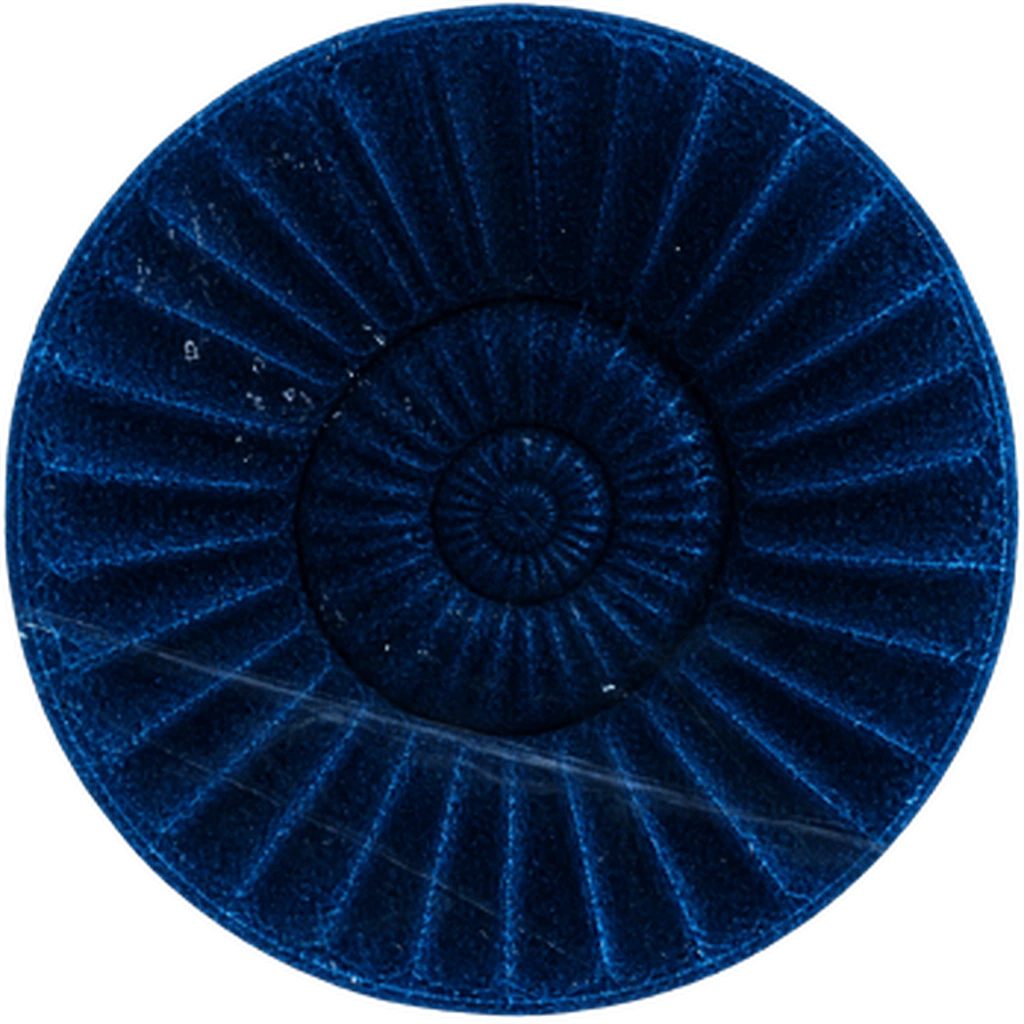
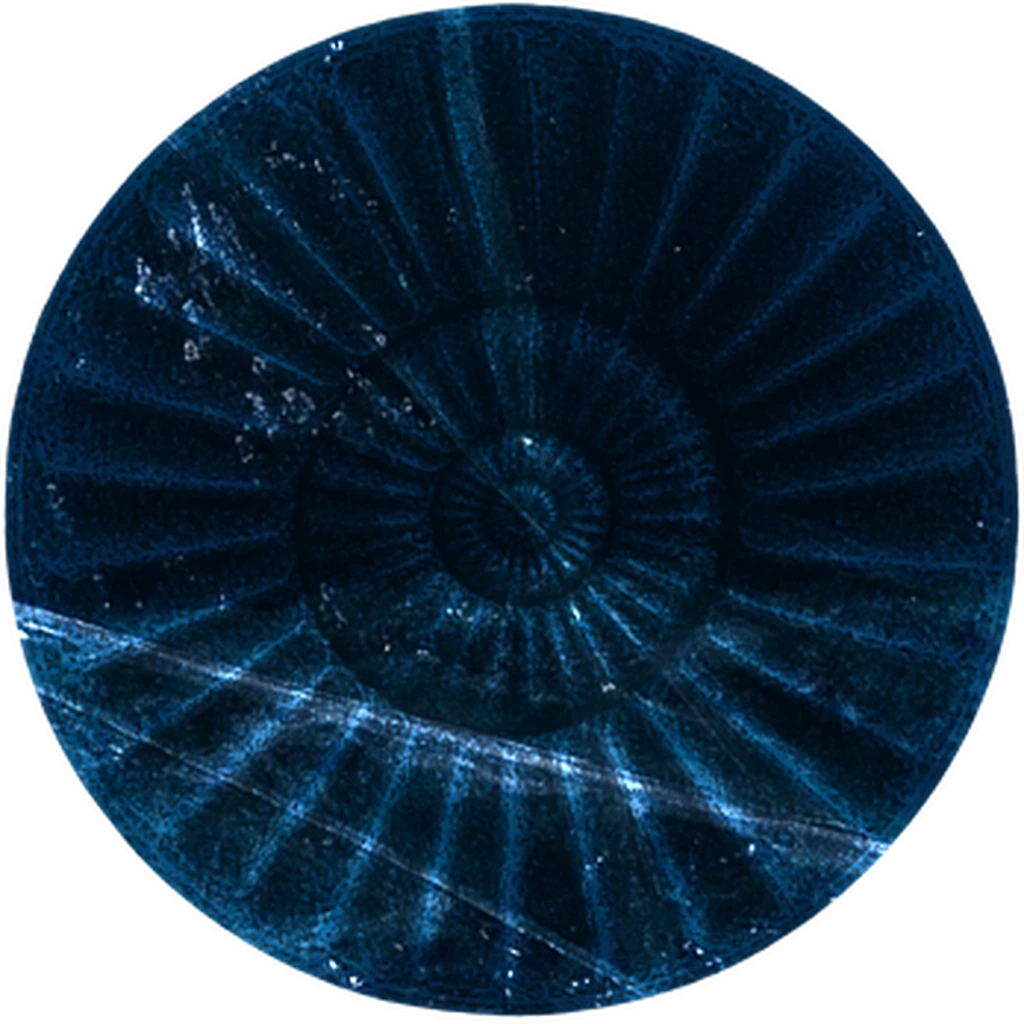
fix: the fossil is now made of the ice, and its cracks actually line up
The cracks carried onto the fossil could never have registered, for a reason
that took measuring rather than looking. The shared rule makes a plate's frame
`100% - --rate` tall, so the ice plate's inherited -90 left its frame 90px
taller than the plate itself. That put the PLANE'S CENTRE 45px below the
viewport centre, and made its cover scale (1.24svh + 90)/1216 while
--disc-size was derived from 1.24svh/1216. Different centre AND different
scale: two errors compounding, neither visible as anything but "the cracks
don't line up".

Setting the ice plate's --rate to 0 collapses both at once. The frame is then
exactly the plate, the plane's centre IS the viewport centre, and the cover
scale is precisely what --disc-size assumes. Measured in-browser: 0.0px centre
offset and under 0.4px of size error at 1440x900, 1920x1080 and 390x844. The
ice is a held backdrop that dissolves; it loses nothing by not parallaxing.

The fossil is no longer a separate object tinted to match. It is built FROM
the plane: the exact ice that would sit in that spot, modulated by the
spiral's own relief. Colour matches by construction (delta 4.3 against the
surrounding ice, from 127 at its worst) and the cracks are not composited onto
it — they are already there, because these are those pixels.

Deck and wheel unaffected: deck still centred, wheel still seats at 0.05px.

diff --git a/src/styles/music.css b/src/styles/music.css
@@ -64,9 +64,21 @@
     var(--bg-deep);
 }
 
-/* The ice falls away once the deck has it. */
+/* The ice falls away once the deck has it.
+
+   --rate: 0 IS LOAD-BEARING and not a taste call. The shared rule makes a
+   plate's frame `100% - --rate` tall, so the inherited -90 left the frame 90px
+   taller than its plate — which put the PLANE'S CENTRE 45px below the viewport
+   centre, and made its cover scale (1.24svh + 90)/1216 while --disc-size uses
+   1.24svh/1216. Different centre and different scale, so the fossil could
+   never register against the ice behind it and the cracks carried onto it
+   could never line up. At 0 the frame is exactly the plate, the plane's centre
+   IS the viewport centre, and the cover scale is exactly what --disc-size was
+   derived from. The ice is a held backdrop that dissolves; it loses nothing by
+   not parallaxing. */
 .page-hero .plate--back {
   z-index: 1;
+  --rate: 0;
   opacity: clamp(0, calc((0.78 - var(--p, 0)) / 0.22), 1);
 }
 
